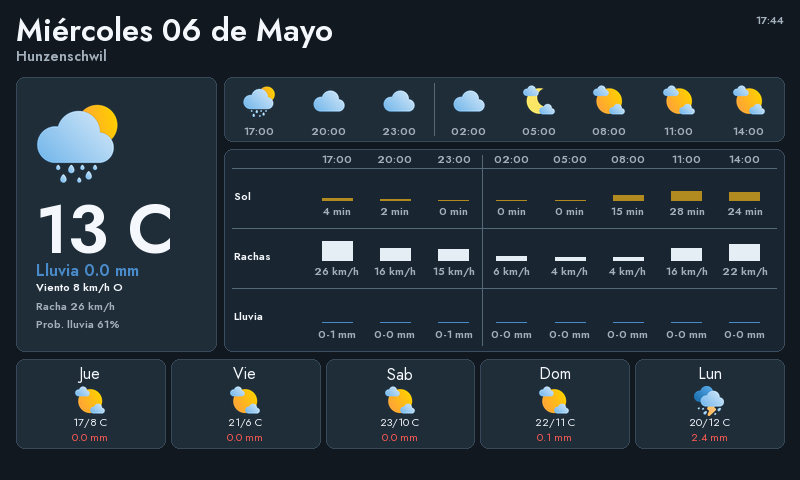
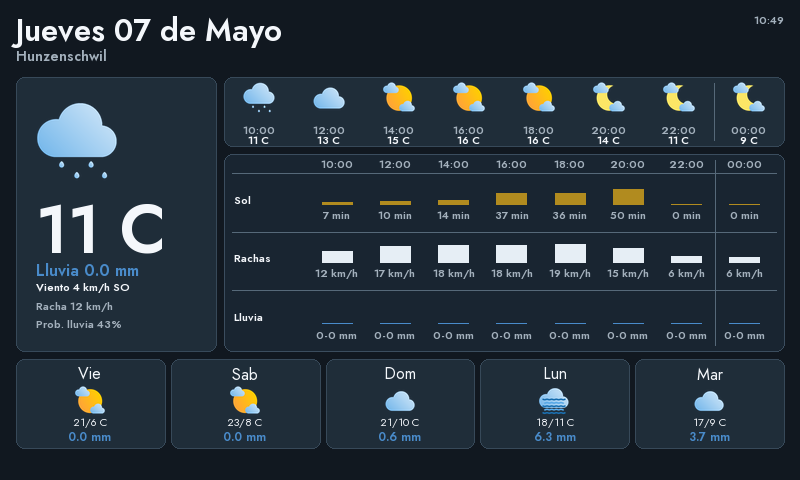
Improve rain values per hourly blocks and FE improvements

diff --git a/src/plugins/meteoswiss_weather/meteoswiss_weather.py b/src/plugins/meteoswiss_weather/meteoswiss_weather.py
@@ -220,11 +220,11 @@ class MeteoSwissWeather(BasePlugin):
             logger.warning("MeteoSwiss parameter %s not available in %s", parameter, item.get("item_id"))
             return []
 
-        path = self.download_file(asset["href"], f"{item['item_id']}_{parameter}.csv")
+        path = self.download_file(asset["href"], Path(asset["href"]).name)
         return self.cached_filtered_parameter(path, item["item_id"], parameter, point_id, point_type_id, tz)
 
     def cached_filtered_parameter(self, csv_path, item_id, parameter, point_id, point_type_id, tz):
-        filtered_path = self.cache_dir() / f"{item_id}_{parameter}_{point_type_id}_{point_id}.json"
+        filtered_path = self.cache_dir() / f"{csv_path.stem}_{point_type_id}_{point_id}.json"
         if filtered_path.exists() and filtered_path.stat().st_mtime >= csv_path.stat().st_mtime:
             with filtered_path.open(encoding="utf-8") as file:
                 cached_rows = json.load(file)
@@ -244,10 +244,20 @@ class MeteoSwissWeather(BasePlugin):
     @staticmethod
     def find_parameter_asset(item, parameter):
         suffix = f".{parameter}.csv"
-        for name, asset in item.get("assets", {}).items():
-            if name.endswith(suffix):
-                return asset
-        return None
+        matching_assets = [
+            (name, asset)
+            for name, asset in item.get("assets", {}).items()
+            if name.endswith(suffix)
+        ]
+        if not matching_assets:
+            return None
+        return max(
+            matching_assets,
+            key=lambda entry: (
+                entry[1].get("updated") or entry[1].get("created") or "",
+                entry[0],
+            ),
+        )[1]
 
     def download_collection_asset(self, asset_name):
         cached_path = self.cache_dir() / asset_name
@@ -495,20 +505,20 @@ class MeteoSwissWeather(BasePlugin):
         current_width = int(width * 0.25)
 
         current_box = (margin, content_top, margin + current_width, chart_bottom)
-        strip_box = (margin + current_width + gap, content_top, width - margin, content_top + int(height * 0.135))
+        strip_box = (margin + current_width + gap, content_top, width - margin, content_top + int(height * 0.145))
         chart_box = (margin + current_width + gap, strip_box[3] + gap, width - margin, chart_bottom)
         forecast_box = (margin, chart_bottom + gap, width - margin, height - margin * 2)
 
         if width < height:
             current_box = (margin, content_top, width - margin, content_top + int(height * 0.28))
-            strip_box = (margin, current_box[3] + gap, width - margin, current_box[3] + gap + int(height * 0.12))
+            strip_box = (margin, current_box[3] + gap, width - margin, current_box[3] + gap + int(height * 0.13))
             chart_box = (margin, strip_box[3] + gap, width - margin, chart_bottom)
             forecast_box = (margin, chart_bottom + gap, width - margin, height - margin * 2)
 
         self.draw_current_dark(draw, image, weather, current_box, temp_font, metric_font, small_font, ink, muted, panel, accent, rain_blue)
         self.draw_weather_strip(draw, image, weather["hourly"], strip_box, small_font, ink, muted, panel, panel_soft)
         self.draw_metric_tables(draw, weather["hourly"], chart_box, small_font, ink, muted, grid, rain_blue, sun_gold)
-        self.draw_forecast_dark(draw, image, weather["forecast"][1:], forecast_box, metric_font, small_font, ink, muted, panel, accent)
+        self.draw_forecast_dark(draw, image, weather["forecast"][1:], forecast_box, metric_font, small_font, ink, muted, panel, rain_blue)
         return image
 
     def draw_current_dark(self, draw, image, weather, box, temp_font, metric_font, small_font, ink, muted, panel, accent, rain_blue):
@@ -549,20 +559,23 @@ class MeteoSwissWeather(BasePlugin):
 
         left, top, right, bottom = box
         draw.rounded_rectangle(box, radius=8, fill=panel, outline=(55, 73, 89), width=1)
-        sample = hourly[:24:3]
+        sample = self.hourly_samples(hourly)
         if not sample:
             return
 
         cell_width = (right - left) / len(sample)
-        icon_size = int(min((bottom - top) * 0.50, cell_width * 0.46))
+        icon_size = int(min((bottom - top) * 0.48, cell_width * 0.46))
         for index, hour in enumerate(sample):
             cx = left + cell_width * (index + 0.5)
             if self.starts_new_day(sample, index):
                 separator_x = left + cell_width * index
                 draw.line((separator_x, top + 6, separator_x, bottom - 6), fill=(86, 105, 121), width=1)
-            self.paste_icon(image, hour["icon"], (int(cx - icon_size / 2), int(top + (bottom - top) * 0.14)), icon_size)
+            self.paste_icon(image, hour["icon"], (int(cx - icon_size / 2), int(top + (bottom - top) * 0.08)), icon_size)
             time_label = hour["time"].strftime("%H:00")
-            draw.text((cx, bottom - font.size * 0.92), time_label, anchor="mm", fill=muted, font=font)
+            draw.text((cx, bottom - font.size * 1.45), time_label, anchor="mm", fill=muted, font=font)
+            temp = self.format_number(hour.get("temperature"))
+            temp_label = f"{temp} C" if temp != "-" else "-"
+            draw.text((cx, bottom - font.size * 0.52), temp_label, anchor="mm", fill=ink, font=font)
 
     def draw_metric_tables(self, draw, hourly, box, font, ink, muted, grid, rain_blue, sun_gold):
         if not hourly:
@@ -571,7 +584,7 @@ class MeteoSwissWeather(BasePlugin):
         left, top, right, bottom = box
         draw.rounded_rectangle(box, radius=8, fill=(25, 37, 49), outline=(59, 77, 94), width=1)
 
-        samples = hourly[:24:3]
+        samples = self.metric_samples(hourly)
         if not samples:
             return
 
@@ -584,7 +597,7 @@ class MeteoSwissWeather(BasePlugin):
         plot_height = max(plot_bottom - plot_top, 1)
         headers_y = top + header_height * 0.52
 
-        max_sun = 60.0
+        max_sun = 120.0
         max_gust = max([float(h.get("gust") or 0) for h in samples] + [1.0])
         max_rain = max([float(h.get("precip") or 0) for h in samples] + [1.0])
         cell_width = (plot_right - plot_left) / len(samples)
@@ -629,7 +642,7 @@ class MeteoSwissWeather(BasePlugin):
             rain_text = self.format_hourly_metric_value(hour, rain, "precip")
             draw.text((cx, rain_top + band_height * 0.84), rain_text, anchor="mm", fill=muted, font=font)
 
-    def draw_forecast_dark(self, draw, image, forecast, box, body_font, small_font, ink, muted, panel, accent):
+    def draw_forecast_dark(self, draw, image, forecast, box, body_font, small_font, ink, muted, panel, rain_blue):
         if not forecast:
             return
         left, top, right, bottom = box
@@ -645,6 +658,7 @@ class MeteoSwissWeather(BasePlugin):
             x2 = x1 + card_width
             day_font = get_font("Jost", min(body_font.size, max(int(card_width * 0.18), 12)))
             value_font = get_font("Jost", min(small_font.size, max(int(card_width * 0.13), 10)))
+            rain_font = get_font("Jost", min(small_font.size + 1, max(int(card_width * 0.14), 11)), "bold")
             draw.rounded_rectangle((x1, top, x2, bottom), radius=8, fill=panel, outline=(55, 73, 89), width=1)
             draw.text(((x1 + x2) / 2, top + 8), day["day"], anchor="mt", fill=ink, font=day_font)
             icon_size = int((bottom - top) * 0.34)
@@ -653,7 +667,7 @@ class MeteoSwissWeather(BasePlugin):
             low = self.format_number(day["low"])
             rain = self.format_number(day["precip"], decimals=1)
             draw.text(((x1 + x2) / 2, bottom - value_font.size * 2.4), f"{high}/{low} C", anchor="mm", fill=ink, font=value_font)
-            draw.text(((x1 + x2) / 2, bottom - value_font.size * 1.0), f"{rain} mm", anchor="mm", fill=accent, font=value_font)
+            draw.text(((x1 + x2) / 2, bottom - rain_font.size * 0.95), f"{rain} mm", anchor="mm", fill=rain_blue, font=rain_font)
 
     @staticmethod
     def paste_icon(image, path, position, size):
@@ -685,6 +699,28 @@ class MeteoSwissWeather(BasePlugin):
                 return precip_range
             return f"{value:.1f} mm"
         return str(int(round(value)))
+
+    @staticmethod
+    def hourly_samples(hourly):
+        return hourly[:16:2]
+
+    @staticmethod
+    def metric_samples(hourly):
+        samples = []
+        for index in range(0, min(len(hourly), 16), 2):
+            window = hourly[index : index + 2]
+            if not window:
+                continue
+            sample = dict(window[0])
+            sample["sunshine"] = sum(float(hour.get("sunshine") or 0) for hour in window)
+            sample["gust"] = max(float(hour.get("gust") or 0) for hour in window)
+            sample["precip"] = sum(float(hour.get("precip") or 0) for hour in window)
+            if any(hour.get("precip_low") is not None for hour in window):
+                sample["precip_low"] = sum(float(hour.get("precip_low") or 0) for hour in window)
+            if any(hour.get("precip_high") is not None for hour in window):
+                sample["precip_high"] = sum(float(hour.get("precip_high") or 0) for hour in window)
+            samples.append(sample)
+        return samples
 
     @staticmethod
     def format_precip_range(low, high):